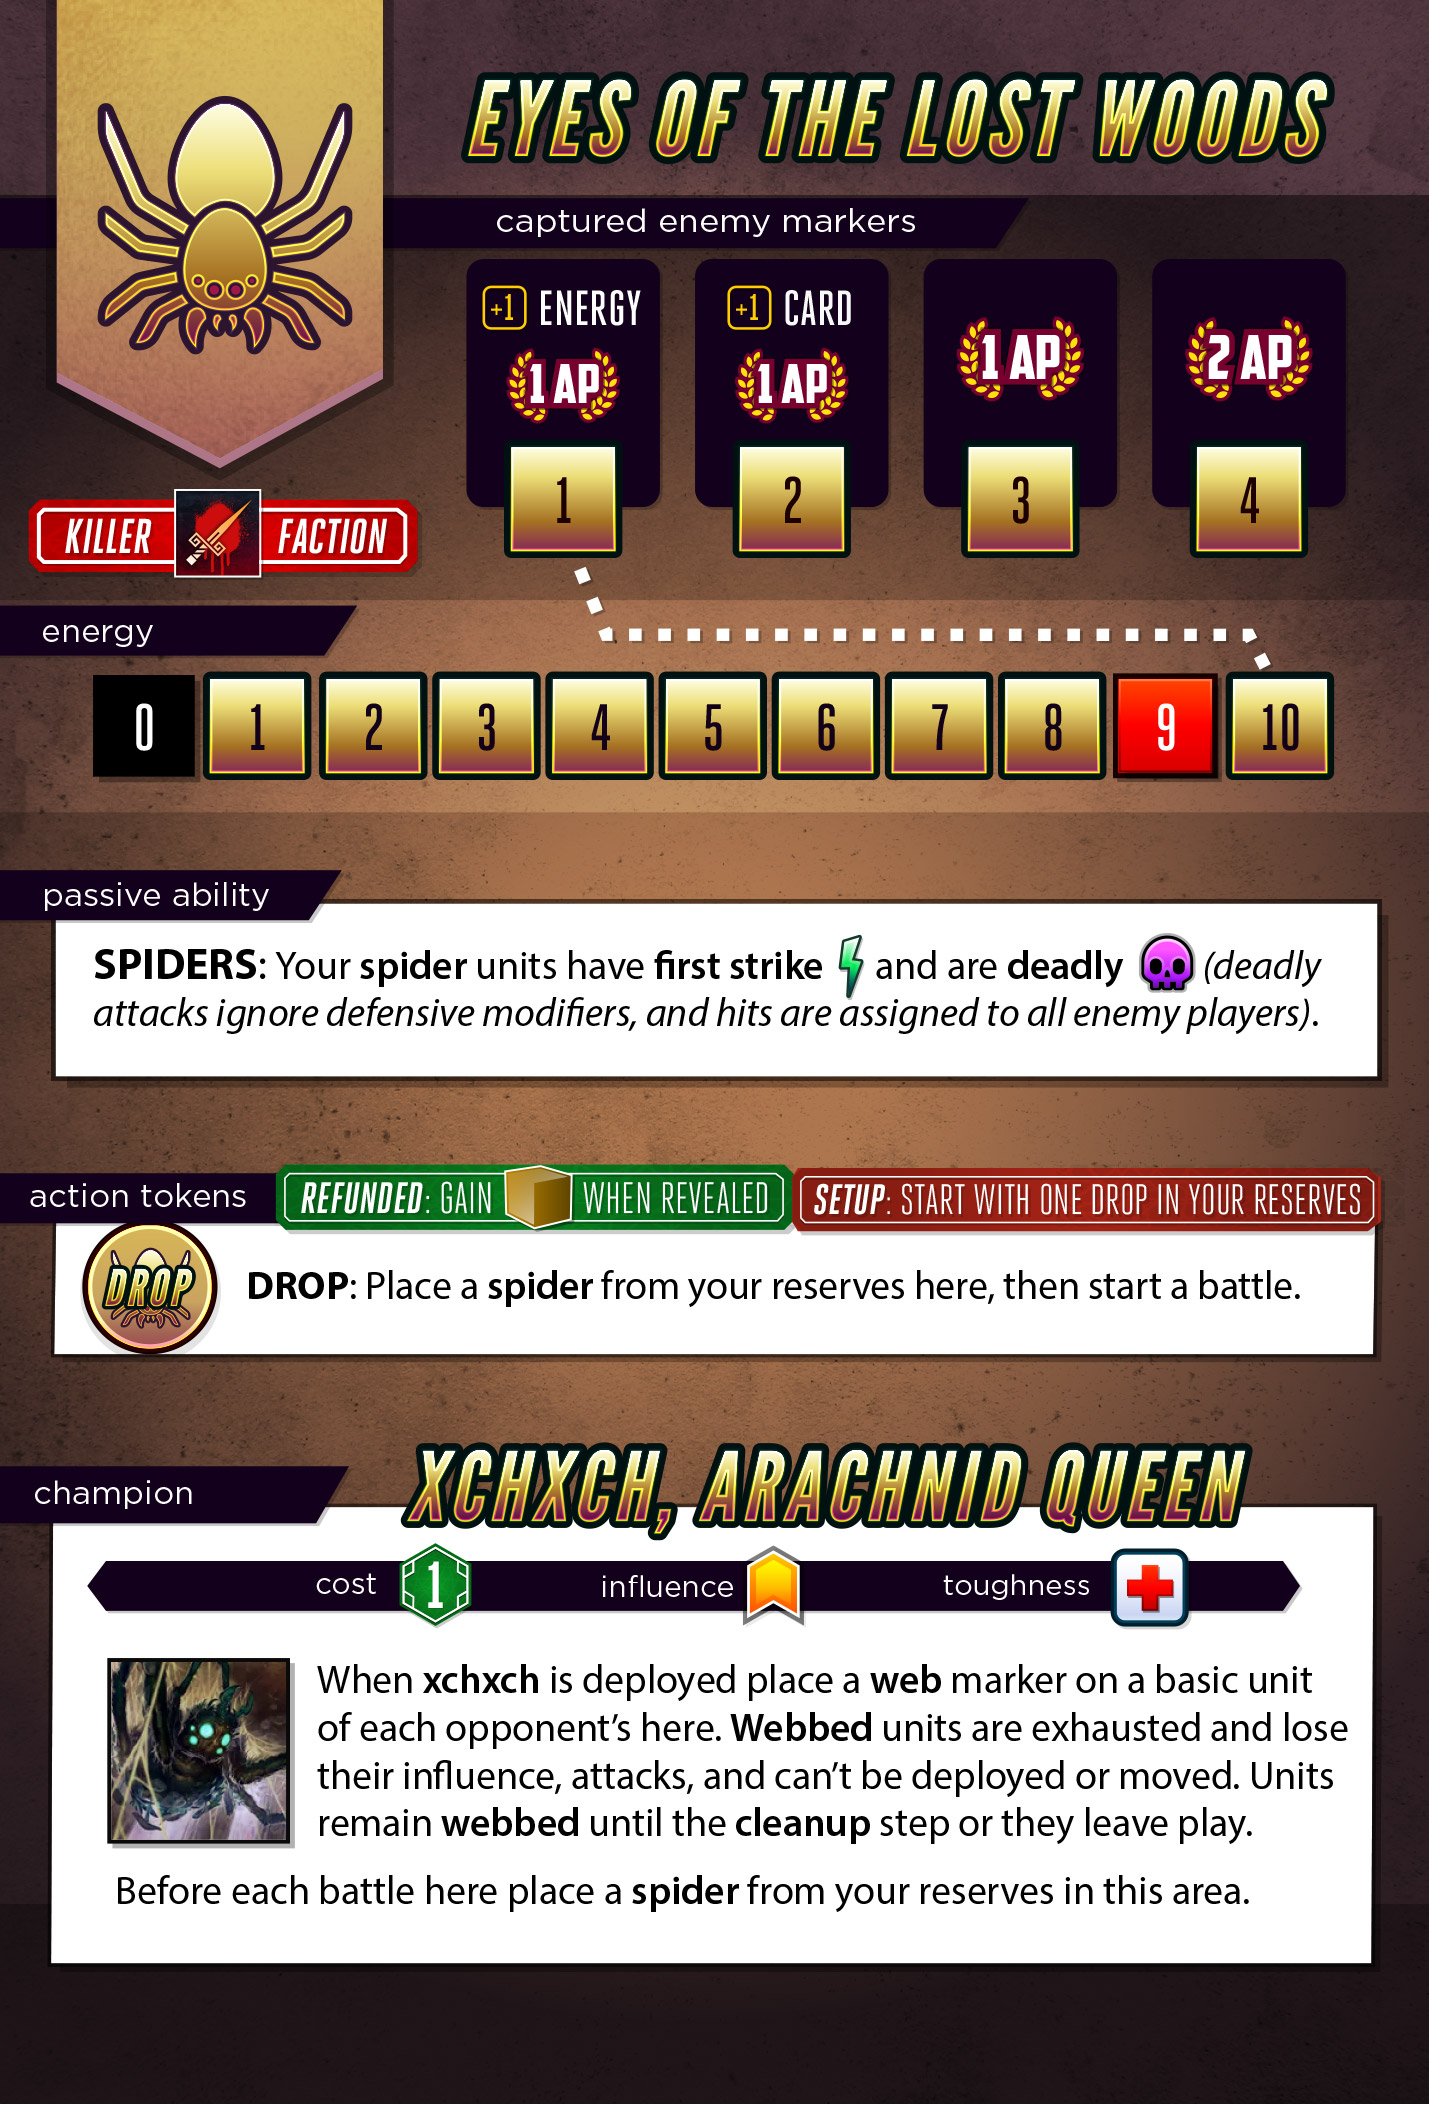
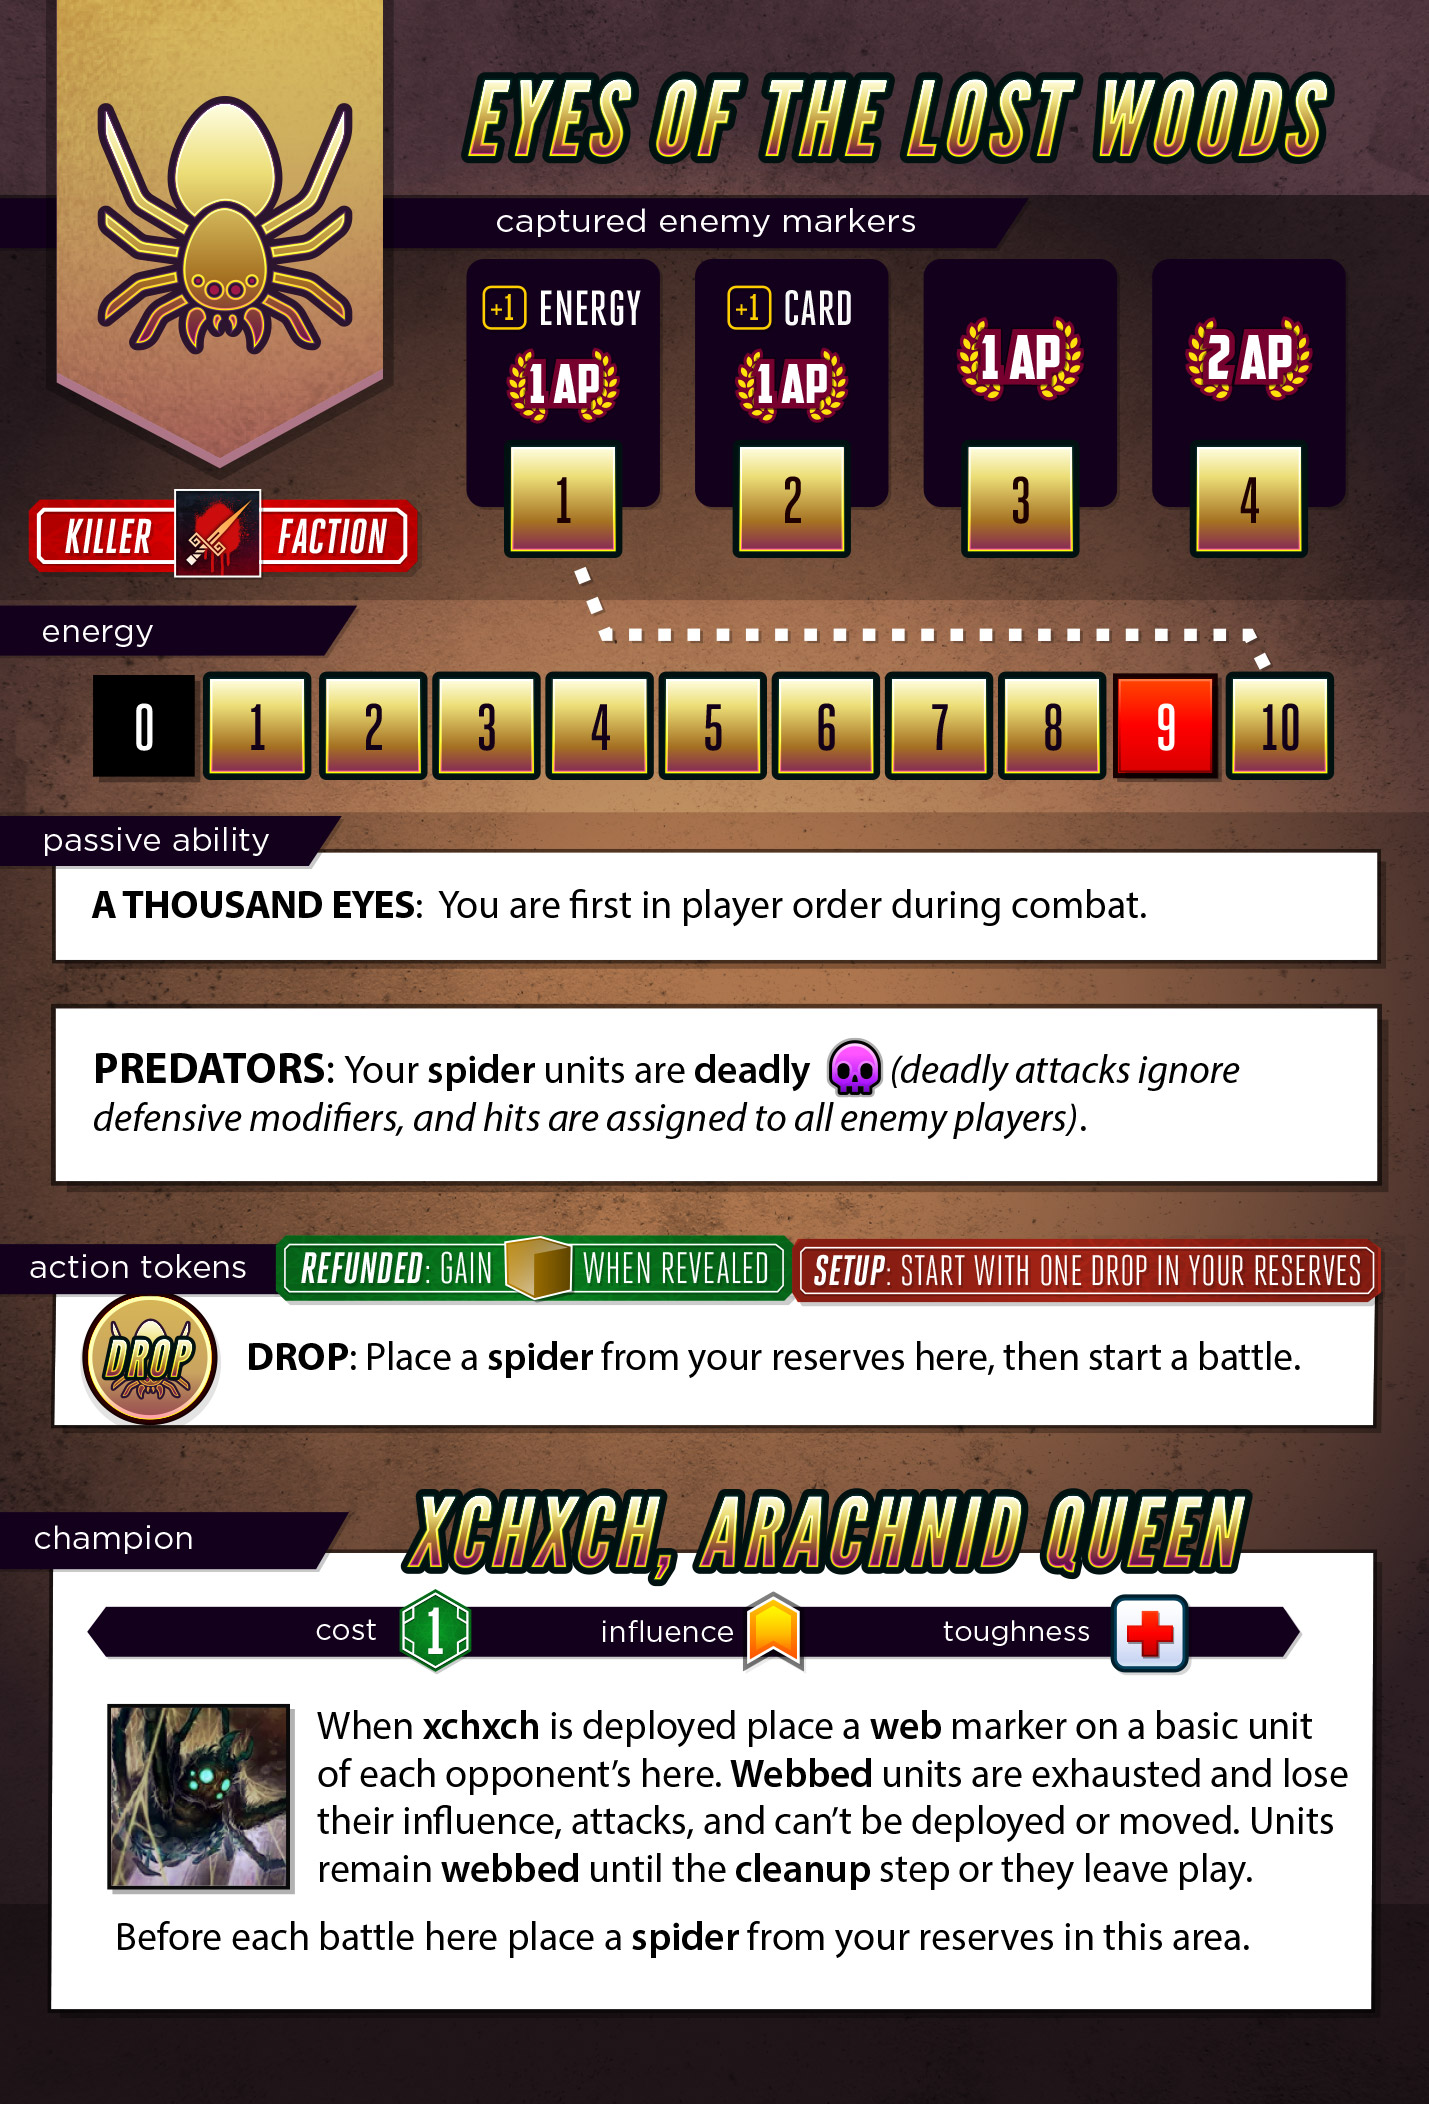
SPIDERS: nerf remove first strike from spiders reduce attack to 5

diff --git a/server/classes/factions/Spiders.js b/server/classes/factions/Spiders.js
@@ -65,10 +65,9 @@ class Spiders extends Faction {
                 cost: 0,
                 noDeploy: true,
                 influence: 0,
-                attack: [4],
+                attack: [5],
                 deadly : true,
                 killed: false,
-                firstStrike: true,
                 selected: false,
                 hitsAssigned: 0,
             }
@@ -94,6 +93,19 @@ class Spiders extends Faction {
                 hitsAssigned: 0,
             }
         };
+    }
+
+    /**
+     * Sort this faction to the front of combat order
+     *
+     * @param combatFactions
+     */
+    battleOrderSort( combatFactions ) {
+        combatFactions.sort( (a, b) => {
+            if ( a.name === this.name ) return -1;
+            if ( b.name === this.name ) return 1;
+            return a.order - b.order
+        });
     }
 
     /**
